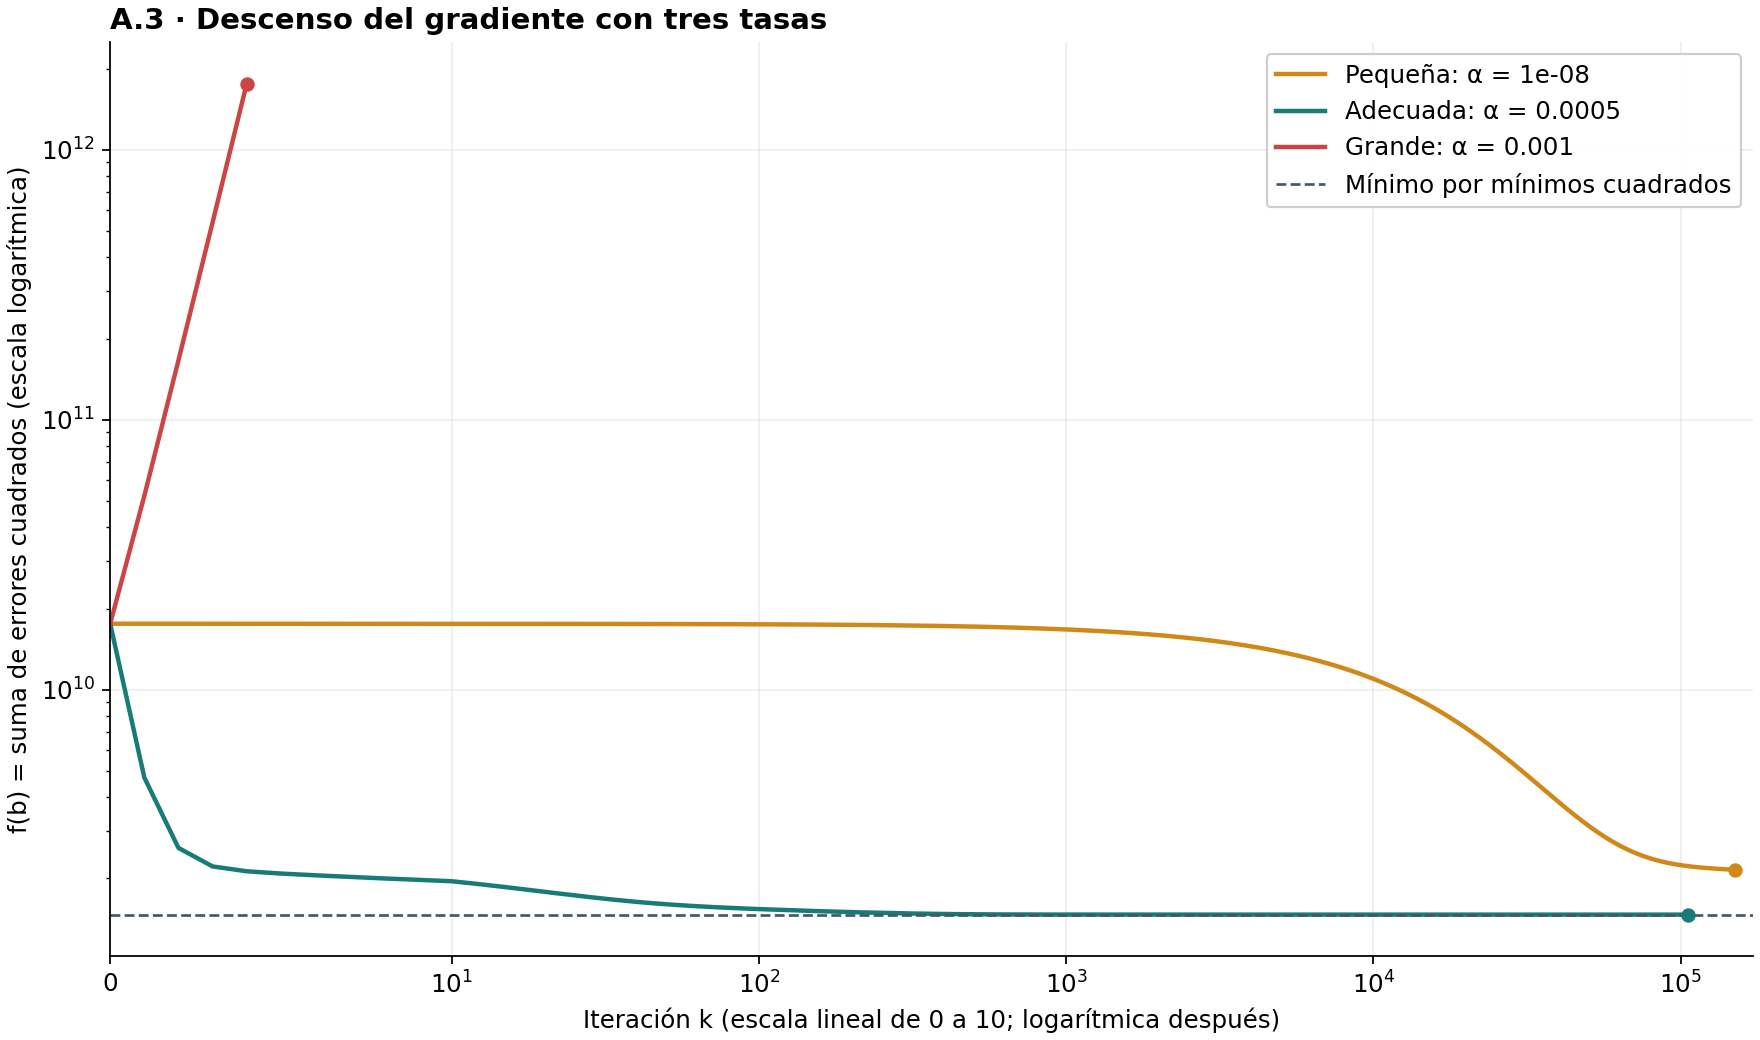
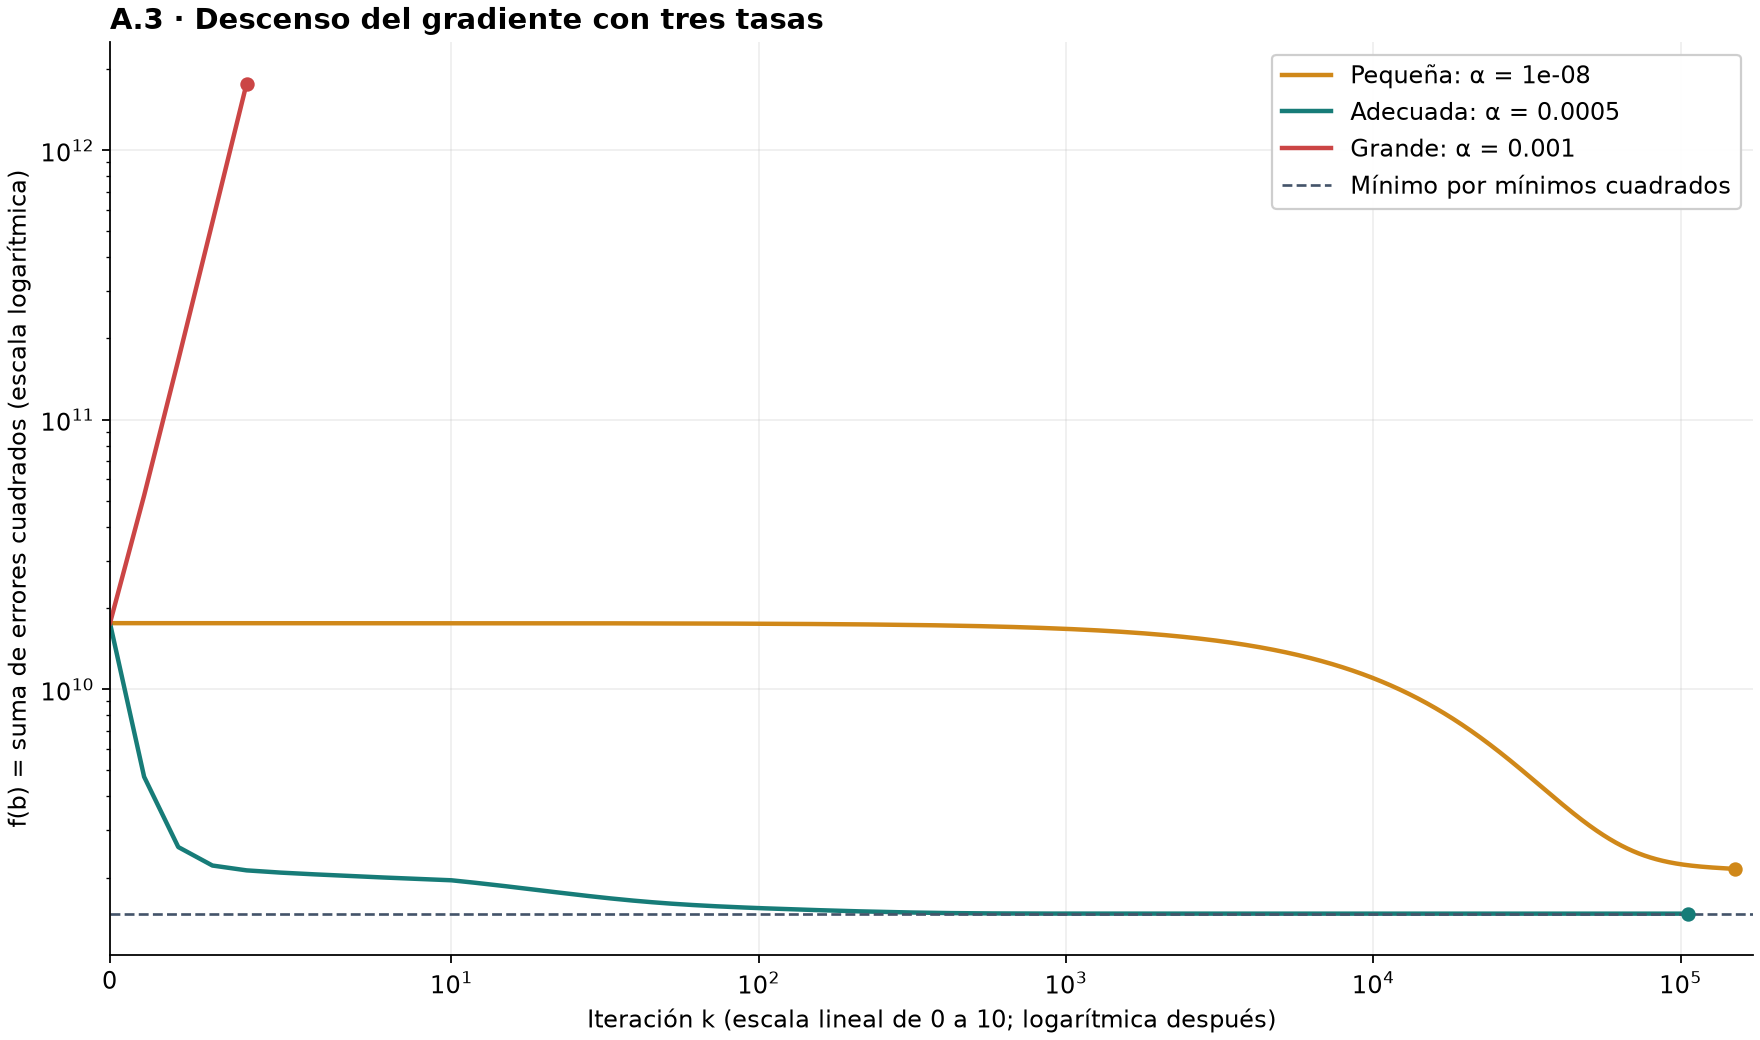
Cambios a los scripts para la lectura del dataset

diff --git a/EjercicioB5.py b/EjercicioB5.py
@@ -1,26 +1,37 @@
-"""B.5: regresión múltiple por ecuaciones normales y comparación con B.2.
 
+"""B.5: regresión múltiple por ecuaciones normales y comparación con B.2.
+ 
 Como en B.2, calcula por fórmulas y contrasta con statsmodels.
 Usa la notación STC, SCR y SCE de B.1, y compara con el mejor modelo de B.2.
-Genera Resultados B.5.txt y Texto B.5 para informe.txt junto al programa.
+Genera Resultados B.5.txt junto al programa.
 No necesita ejecutar los demás scripts ni utiliza resultados de B.3 o B.4.
 """
-
+ 
 from pathlib import Path
-
+ 
 import numpy as np
 import pandas as pd
 import statsmodels.api as sm
-
-
+ 
+ 
 VARIABLES = ("temp", "atemp", "hum", "windspeed")
 
-
+URL = (
+    "https://raw.githubusercontent.com/danwild/bike-share-prediction/"
+    "master/Bike-Sharing-Dataset/day.csv"
+) 
+ 
 def cargar_datos(carpeta):
-    archivo = carpeta / "bike+sharing+dataset" / "day.csv"
-    if not archivo.is_file():
-        raise FileNotFoundError(f"No se encontró el dataset local: {archivo}")
-    df = pd.read_csv(archivo)
+    """Lee bike+sharing+dataset/day.csv junto al script; si no está, usa la URL."""
+    local = carpeta / "bike+sharing+dataset" / "day.csv"
+    try:
+        return pd.read_csv(local if local.exists() else URL)
+    except Exception as e:
+        print(f"Error al cargar los datos: {e}")
+        raise SystemExit(1) 
+
+def obtener_predictores_y_respuesta(df):
+    """Devuelve la matriz de predictores y el vector de respuesta."""
     predictores = df[list(VARIABLES)].to_numpy(dtype=float)
     y = df["cnt"].to_numpy(dtype=float)
     if predictores.ndim != 2 or len(y) <= len(VARIABLES) + 1:
@@ -28,15 +39,14 @@ def cargar_datos(carpeta):
     if not (np.isfinite(predictores).all() and np.isfinite(y).all()):
         raise ValueError("Los datos deben contener valores numéricos finitos.")
     return predictores, y
-
-
+ 
 def ajuste_por_formulas(X, y):
     """Resuelve (X.T X)b = X.T y, equivalente a b = (X.T X)^-1 X.T y."""
     n, p = X.shape
     k = p - 1  # Número de predictores, sin contar el intercepto.
     if np.linalg.matrix_rank(X) != p:
         raise ValueError("El modelo no tiene una solución única: X no tiene rango completo.")
-
+ 
     xtx = X.T @ X
     xty = X.T @ y
     b = np.linalg.solve(xtx, xty)
@@ -47,13 +57,13 @@ def ajuste_por_formulas(X, y):
     if stc <= 0:
         raise ValueError("La variable respuesta debe tener variabilidad.")
     r2 = 1 - sce / stc
-
+ 
     # Se calculan ambas fórmulas porque el PDF usa (n-k) en el numerador.
     # Solo se presenta el ajuste del múltiple; del simple se compara el R² de B.2.
     # En ambas, k cuenta solo los predictores, sin el intercepto.
     r2_aj_consigna = 1 - (1 - r2) * (n - k) / (n - k - 1)
     r2_aj_habitual = 1 - (1 - r2) * (n - 1) / (n - k - 1)
-
+ 
     return {
         "b": b,
         "xtx": xtx,
@@ -65,8 +75,8 @@ def ajuste_por_formulas(X, y):
         "r2_aj_consigna": r2_aj_consigna,
         "r2_aj_habitual": r2_aj_habitual,
     }
-
-
+ 
+ 
 def ajuste_por_statsmodels(X, y):
     """Verificación independiente con la misma herramienta utilizada en B.2."""
     modelo = sm.OLS(y, X).fit()
@@ -82,8 +92,8 @@ def ajuste_por_statsmodels(X, y):
         "r2_aj_habitual": float(modelo.rsquared_adj),
         "r2_aj_consigna": 1 - (1 - modelo.rsquared) * (n - k) / (n - k - 1),
     }
-
-
+ 
+ 
 def coinciden(formulas, herramienta):
     coeficientes_ok = np.allclose(formulas["b"], herramienta["b"], rtol=0, atol=1e-6)
     claves = ("sce", "scr", "stc", "r2", "r2_aj_habitual", "r2_aj_consigna")
@@ -92,15 +102,16 @@ def coinciden(formulas, herramienta):
         for c in claves
     )
     return bool(coeficientes_ok and medidas_ok)
-
-
+ 
+ 
 def numero(valor, decimales=6):
     return f"{valor:.{decimales}f}".replace(".", ",")
-
-
+ 
+ 
 def main():
     carpeta = Path(__file__).resolve().parent
-    predictores, y = cargar_datos(carpeta)
+    df = cargar_datos(carpeta)
+    predictores, y = obtener_predictores_y_respuesta(df)
     n = len(y)
     X = np.column_stack((np.ones(n), predictores))
     multiple = ajuste_por_formulas(X, y)
@@ -116,7 +127,7 @@ def main():
     mejor = max(simples, key=lambda nombre: simples[nombre]["r2"])
     simple = simples[mejor]
     b = multiple["b"]
-
+ 
     diferencia = np.abs(b - herramienta["b"])
     etiquetas = ("b0 (intercepto)", "b1 (temp)", "b2 (atemp)", "b3 (hum)", "b4 (windspeed)")
     coeficientes = "\n".join(
@@ -136,34 +147,34 @@ def main():
     # La comparación solicitada usa R² ajustado del múltiple y R² simple de B.2.
     mejora = multiple["r2_aj_consigna"] > simple["r2"]
     conclusion = "supera" if mejora else "no supera"
-
+ 
     informe = f"""RESULTADOS B.5 - REGRESIÓN MÚLTIPLE
 ==================================
 Fuente: bike+sharing+dataset/day.csv | n = {n} días.
 Respuesta: cnt. Predictores: temp, atemp, hum y windspeed normalizados.
-
+ 
 COEFICIENTES: FÓRMULAS Y HERRAMIENTA, COMO EN B.2
   Parámetro                 Fórmulas      statsmodels     Diferencia
 {coeficientes}
   ¿Coinciden las dos vías? Sí (diferencia absoluta menor que 1e-6).
-
+ 
 MODELO FINAL
   cnt_estimado = {numero(b[0], 4)} + {numero(b[1], 4)}*temp
                 + {numero(b[2], 4)}*atemp {numero(b[3], 4)}*hum
                 {numero(b[4], 4)}*windspeed
-
+ 
 COMPARACIÓN CON EL MEJOR MODELO SIMPLE DEL B.2
   Modelo                          R2    R2 aj. consigna
 {comparacion}
   Mejor simple: {mejor}, elegido por el mayor R2 entre las cuatro variables.
   Recta simple: cnt_estimado = {numero(simple['b'][0], 4)} + {numero(simple['b'][1], 4)}*{mejor}
-
+ 
   El modelo múltiple explica el {numero(100 * multiple['r2'], 2)}% de la variabilidad observada,
   frente al {numero(100 * simple['r2'], 2)}% del modelo simple.
   El R2 ajustado del múltiple ({numero(multiple['r2_aj_consigna'])}) {conclusion}
   el R2 sin ajustar del simple ({numero(simple['r2'])}), tomado de B.2.
   La comparación describe el ajuste a estos datos; no evalúa predicciones futuras.
-
+ 
 FÓRMULAS DE R2 AJUSTADO
   Consigna: R2_aj = 1 - (1-R2)*(n-k)/(n-k-1).
   Habitual: R2_aj = 1 - (1-R2)*(n-1)/(n-k-1).
@@ -172,17 +183,17 @@ FÓRMULAS DE R2 AJUSTADO
   El guion indica que el R2 ajustado del simple no se presenta aquí.
   El PDF usa n-k donde la fórmula habitual usa n-1; ambas se verifican para el múltiple.
   Para seguir literalmente la consigna, usar la columna "R2 aj. consigna".
-
+ 
 RESOLUCIÓN MATRICIAL
   X tiene columnas [1, temp, atemp, hum, windspeed] y dimensión {n} x 5.
   Se resuelve (X^T*X)*b = X^T*y con numpy.linalg.solve.
   Equivale a b = (X^T*X)^(-1)*X^T*y, sin calcular la inversa explícitamente.
-
+ 
   X^T*X =
 {matriz}
   X^T*y =
 {vector}
-
+ 
 VERIFICACIÓN
   Mayor diferencia de coeficientes frente a statsmodels: {diferencia.max():.2e}.
   SCR múltiple = {numero(multiple['scr'], 6)}
@@ -195,63 +206,11 @@ VERIFICACIÓN
   El R2 ajustado literal de la consigna se calcula aparte: {numero(multiple['r2_aj_consigna'])}.
   Cálculos sin redondeo intermedio; valores mostrados redondeados.
 """
-    # Texto independiente para pegar en el informe, siguiendo A.2, A.3 y B.2.
-    tabla_informe = "\n".join(
-        f"{etiqueta}: fórmulas = {numero(valor, 4)}; statsmodels = {numero(valor_sm, 4)}."
-        for etiqueta, valor, valor_sm in zip(etiquetas, b, herramienta["b"])
-    )
-    texto_informe = f"""B.5. Regresión múltiple
-
-Se ajustó un modelo de regresión múltiple utilizando los {n} registros de day.csv. La variable respuesta fue cnt y las variables explicativas fueron temp, atemp, hum y windspeed, manteniendo la escala normalizada del dataset.
-
-Estimación por mínimos cuadrados
-
-Se construyó la matriz X de dimensión {n} x 5, con una columna de unos y las cuatro variables explicativas. Se resolvieron las ecuaciones normales:
-
-(XᵀX)β̂ = Xᵀy, equivalentes a β̂ = (XᵀX)⁻¹Xᵀy.
-
-La resolución se realizó mediante numpy.linalg.solve. Como en B.2, los resultados se contrastaron con statsmodels:
-
-{tabla_informe}
-
-Los coeficientes coinciden dentro de la precisión numérica, con una diferencia máxima de {diferencia.max():.2e}. También coinciden, al redondear a cuatro decimales, con la solución de mínimos cuadrados usada como referencia en A.3.
-
-Modelo final
-
-cnt_estimado = {numero(b[0], 4)} + {numero(b[1], 4)}·temp + {numero(b[2], 4)}·atemp {numero(b[3], 4)}·hum {numero(b[4], 4)}·windspeed.
-
-Cálculo del coeficiente de determinación
-
-Usando la notación de B.1:
-SCE = sum(yi - ŷi)² = {numero(multiple['sce'], 4)}.
-STC = sum(yi - ȳ)² = {numero(multiple['stc'], 4)}.
-R² = 1 - SCE/STC = {numero(multiple['r2'])}.
-
-Comparación con el modelo simple de B.2
-
-En B.2 se seleccionó {mejor}, con el modelo cnt_estimado = {numero(simple['b'][0], 4)} + {numero(simple['b'][1], 4)}·{mejor} y R² = {numero(simple['r2'])}. Se compara este R² sin ajustar con el R² ajustado del modelo múltiple, calculado con la fórmula del enunciado:
-
-R² ajustado = 1 - (1 - R²)·(n - k)/(n - k - 1).
-
-Para el modelo múltiple, n = {n} y k = 4 variables explicativas, sin contar el intercepto.
-
-Simple ({mejor}): R² = {numero(simple['r2'])}; R² ajustado = - (no se utiliza en esta comparación).
-Múltiple: R² = {numero(multiple['r2'])}; R² ajustado según consigna = {numero(multiple['r2_aj_consigna'])}.
-
-Conclusión
-
-El modelo múltiple explica el {numero(100 * multiple['r2'], 2)}% de la variabilidad observada, frente al {numero(100 * simple['r2'], 2)}% del modelo simple, una diferencia de {numero(100 * (multiple['r2'] - simple['r2']), 2)} puntos porcentuales. Su R² ajustado ({numero(multiple['r2_aj_consigna'])}) también {conclusion} el R² sin ajustar del modelo simple ({numero(simple['r2'])}). Por lo tanto, la comparación favorece al modelo múltiple para estos datos. Esto no implica causalidad ni garantiza una mejora predictiva en días nuevos.
-
-Nota sobre R² ajustado: la fórmula estándar utiliza n-1 en el numerador, en lugar de n-k. Con ella se obtiene {numero(multiple['r2_aj_habitual'])} para el múltiple, valor que coincide con rsquared_adj de statsmodels y sigue siendo mayor que el R² sin ajustar del simple ({numero(simple['r2'])}). El resultado {numero(multiple['r2_aj_consigna'])} se identifica como "según consigna" para distinguir ambas fórmulas.
-"""
     salida = carpeta / "Resultados B.5.txt"
     salida.write_text(informe, encoding="utf-8-sig")
-    salida_informe = carpeta / "Texto B.5 para informe.txt"
-    salida_informe.write_text(texto_informe, encoding="utf-8-sig")
     print(informe)
     print(f"Archivo generado: {salida}")
-    print(f"Texto para el PDF: {salida_informe}")
-
-
+ 
+ 
 if __name__ == "__main__":
     main()

diff --git a/EjercicioB1.py b/EjercicioB1.py
@@ -2,6 +2,19 @@ from pathlib import Path
 import numpy as np
 import pandas as pd
 
+URL = (
+    "https://raw.githubusercontent.com/danwild/bike-share-prediction/"
+    "master/Bike-Sharing-Dataset/day.csv"
+)
+
+def cargar_datos(carpeta):
+    """Lee bike+sharing+dataset/day.csv junto al script; si no está, usa la URL."""
+    local = carpeta / "bike+sharing+dataset" / "day.csv"
+    try:
+        return pd.read_csv(local if local.exists() else URL)
+    except Exception as e:
+        print(f"Error al cargar los datos: {e}")
+        raise SystemExit(1)
 
 def numero(valor, decimales=4):
     """Formatea un número flotante usando coma como separador decimal."""
@@ -11,14 +24,7 @@ def numero(valor, decimales=4):
 def main():
     # Define la carpeta actual y la ruta relativa al archivo dentro del repositorio
     carpeta = Path(__file__).resolve().parent
-    archivo = carpeta / "bike+sharing+dataset" / "day.csv"
-
-    # 1. Cargar datos desde el archivo local de la carpeta
-    try:
-        df = pd.read_csv(archivo)
-    except FileNotFoundError:
-        print(f"Error: No se encontró el archivo en la ruta {archivo}")
-        return
+    df = cargar_datos(carpeta)
 
     # Variables del modelo B.1
     x = df["temp"].values

diff --git a/EjercicioA3.py b/EjercicioA3.py
@@ -16,13 +16,19 @@ MAX_ITERACIONES = 150_000
 TOLERANCIA_GRADIENTE = 1e-5
 FACTOR_DIVERGENCIA = 100
 
+URL = (
+    "https://raw.githubusercontent.com/danwild/bike-share-prediction/"
+    "master/Bike-Sharing-Dataset/day.csv"
+)
 
 def cargar_datos(carpeta):
-    archivo = carpeta / "bike+sharing+dataset" / "day.csv"
-    df = pd.read_csv(archivo)
-    X = np.column_stack([np.ones(len(df))] + [df[v].values for v in VARIABLES])
-    y = df["cnt"].values
-    return X, y
+    """Lee bike+sharing+dataset/day.csv junto al script; si no está, usa la URL."""
+    local = carpeta / "bike+sharing+dataset" / "day.csv"
+    try:
+        return pd.read_csv(local if local.exists() else URL)
+    except Exception as e:
+        print(f"Error al cargar los datos: {e}")
+        raise SystemExit(1)
 
 
 def costo(X, y, b):
@@ -94,7 +100,9 @@ def graficar(resultados, f_minimo, archivo):
 
 def main():
     carpeta = Path(__file__).resolve().parent
-    X, y = cargar_datos(carpeta)
+    df =cargar_datos(carpeta)
+    X = np.column_stack([np.ones(len(df))] + [df[v].values for v in VARIABLES])
+    y = df["cnt"].values
     H = 2 * X.T @ X
     c = 2 * X.T @ y
 

diff --git a/EjercicioA2.py b/EjercicioA2.py
@@ -2,6 +2,20 @@ from pathlib import Path
 import numpy as np
 import pandas as pd
 
+URL = (
+    "https://raw.githubusercontent.com/danwild/bike-share-prediction/"
+    "master/Bike-Sharing-Dataset/day.csv"
+)
+
+def cargar_datos(carpeta):
+    """Lee bike+sharing+dataset/day.csv junto al script; si no está, usa la URL."""
+    local = carpeta / "bike+sharing+dataset" / "day.csv"
+    try:
+        return pd.read_csv(local if local.exists() else URL)
+    except Exception as e:
+        print(f"Error al cargar los datos: {e}")
+        raise SystemExit(1)
+
 
 def numero(valor, decimales=12):
     return f"{valor:.{decimales}f}".replace(".", ",")
@@ -9,10 +23,8 @@ def numero(valor, decimales=12):
 
 def main():
     carpeta = Path(__file__).resolve().parent
-    archivo = carpeta / "bike+sharing+dataset" / "day.csv"
-
     # Carga de datos con pandas
-    df = pd.read_csv(archivo)
+    df = cargar_datos(carpeta)
     x = df["temp"].values
     y = df["cnt"].values
     n = len(x)
